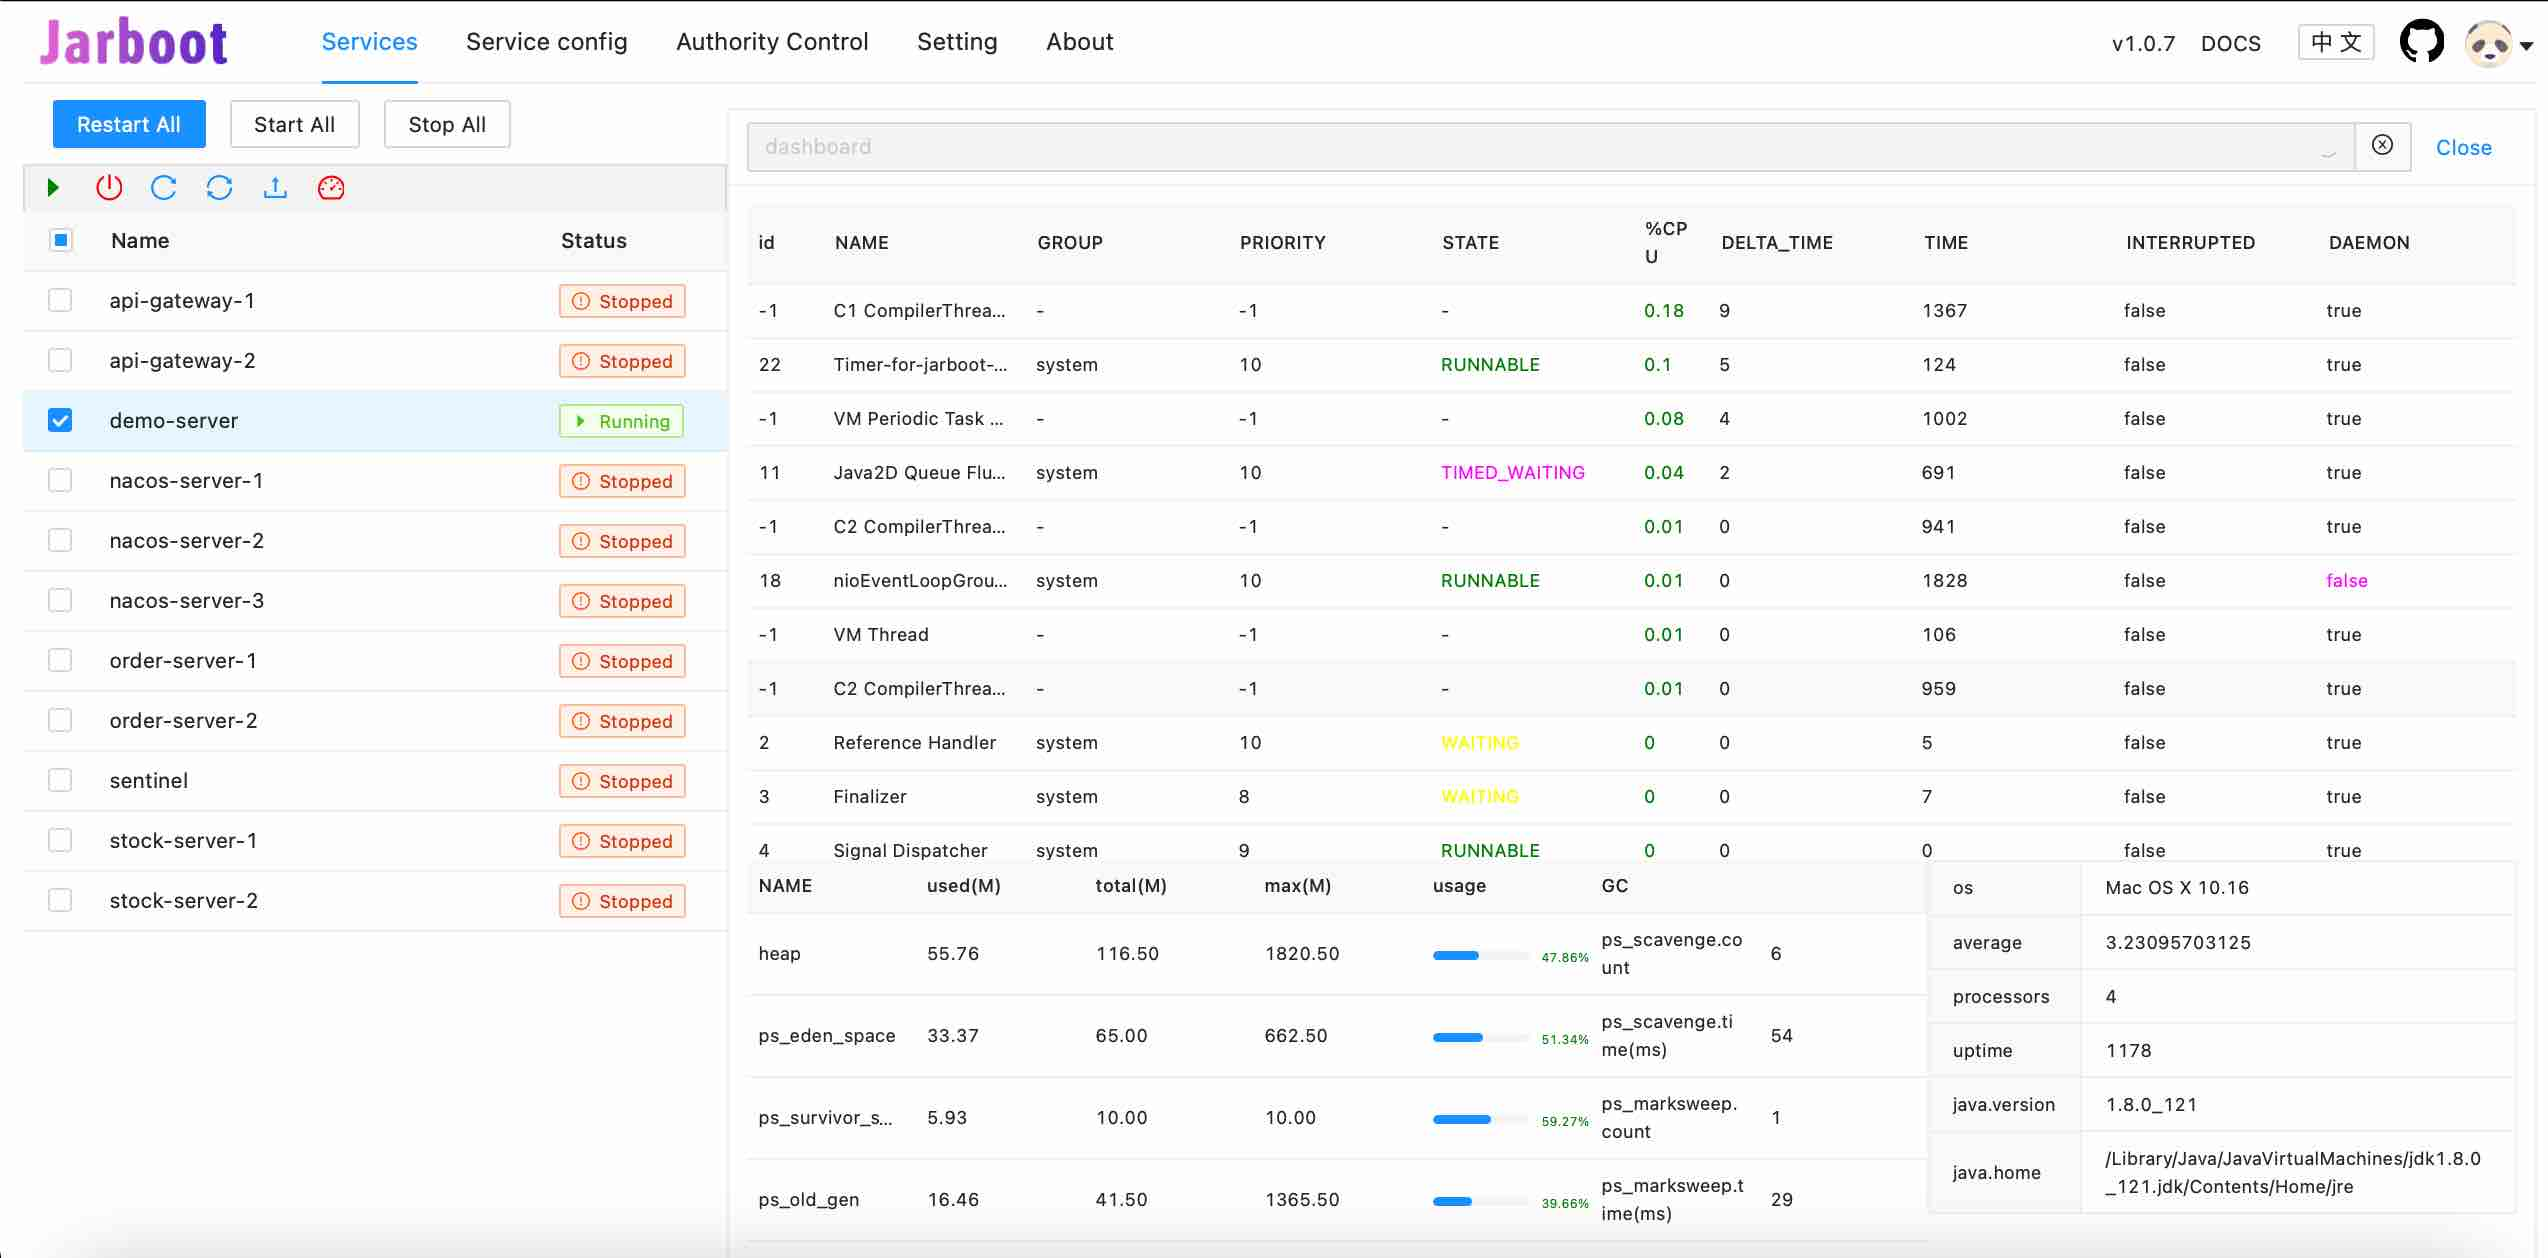
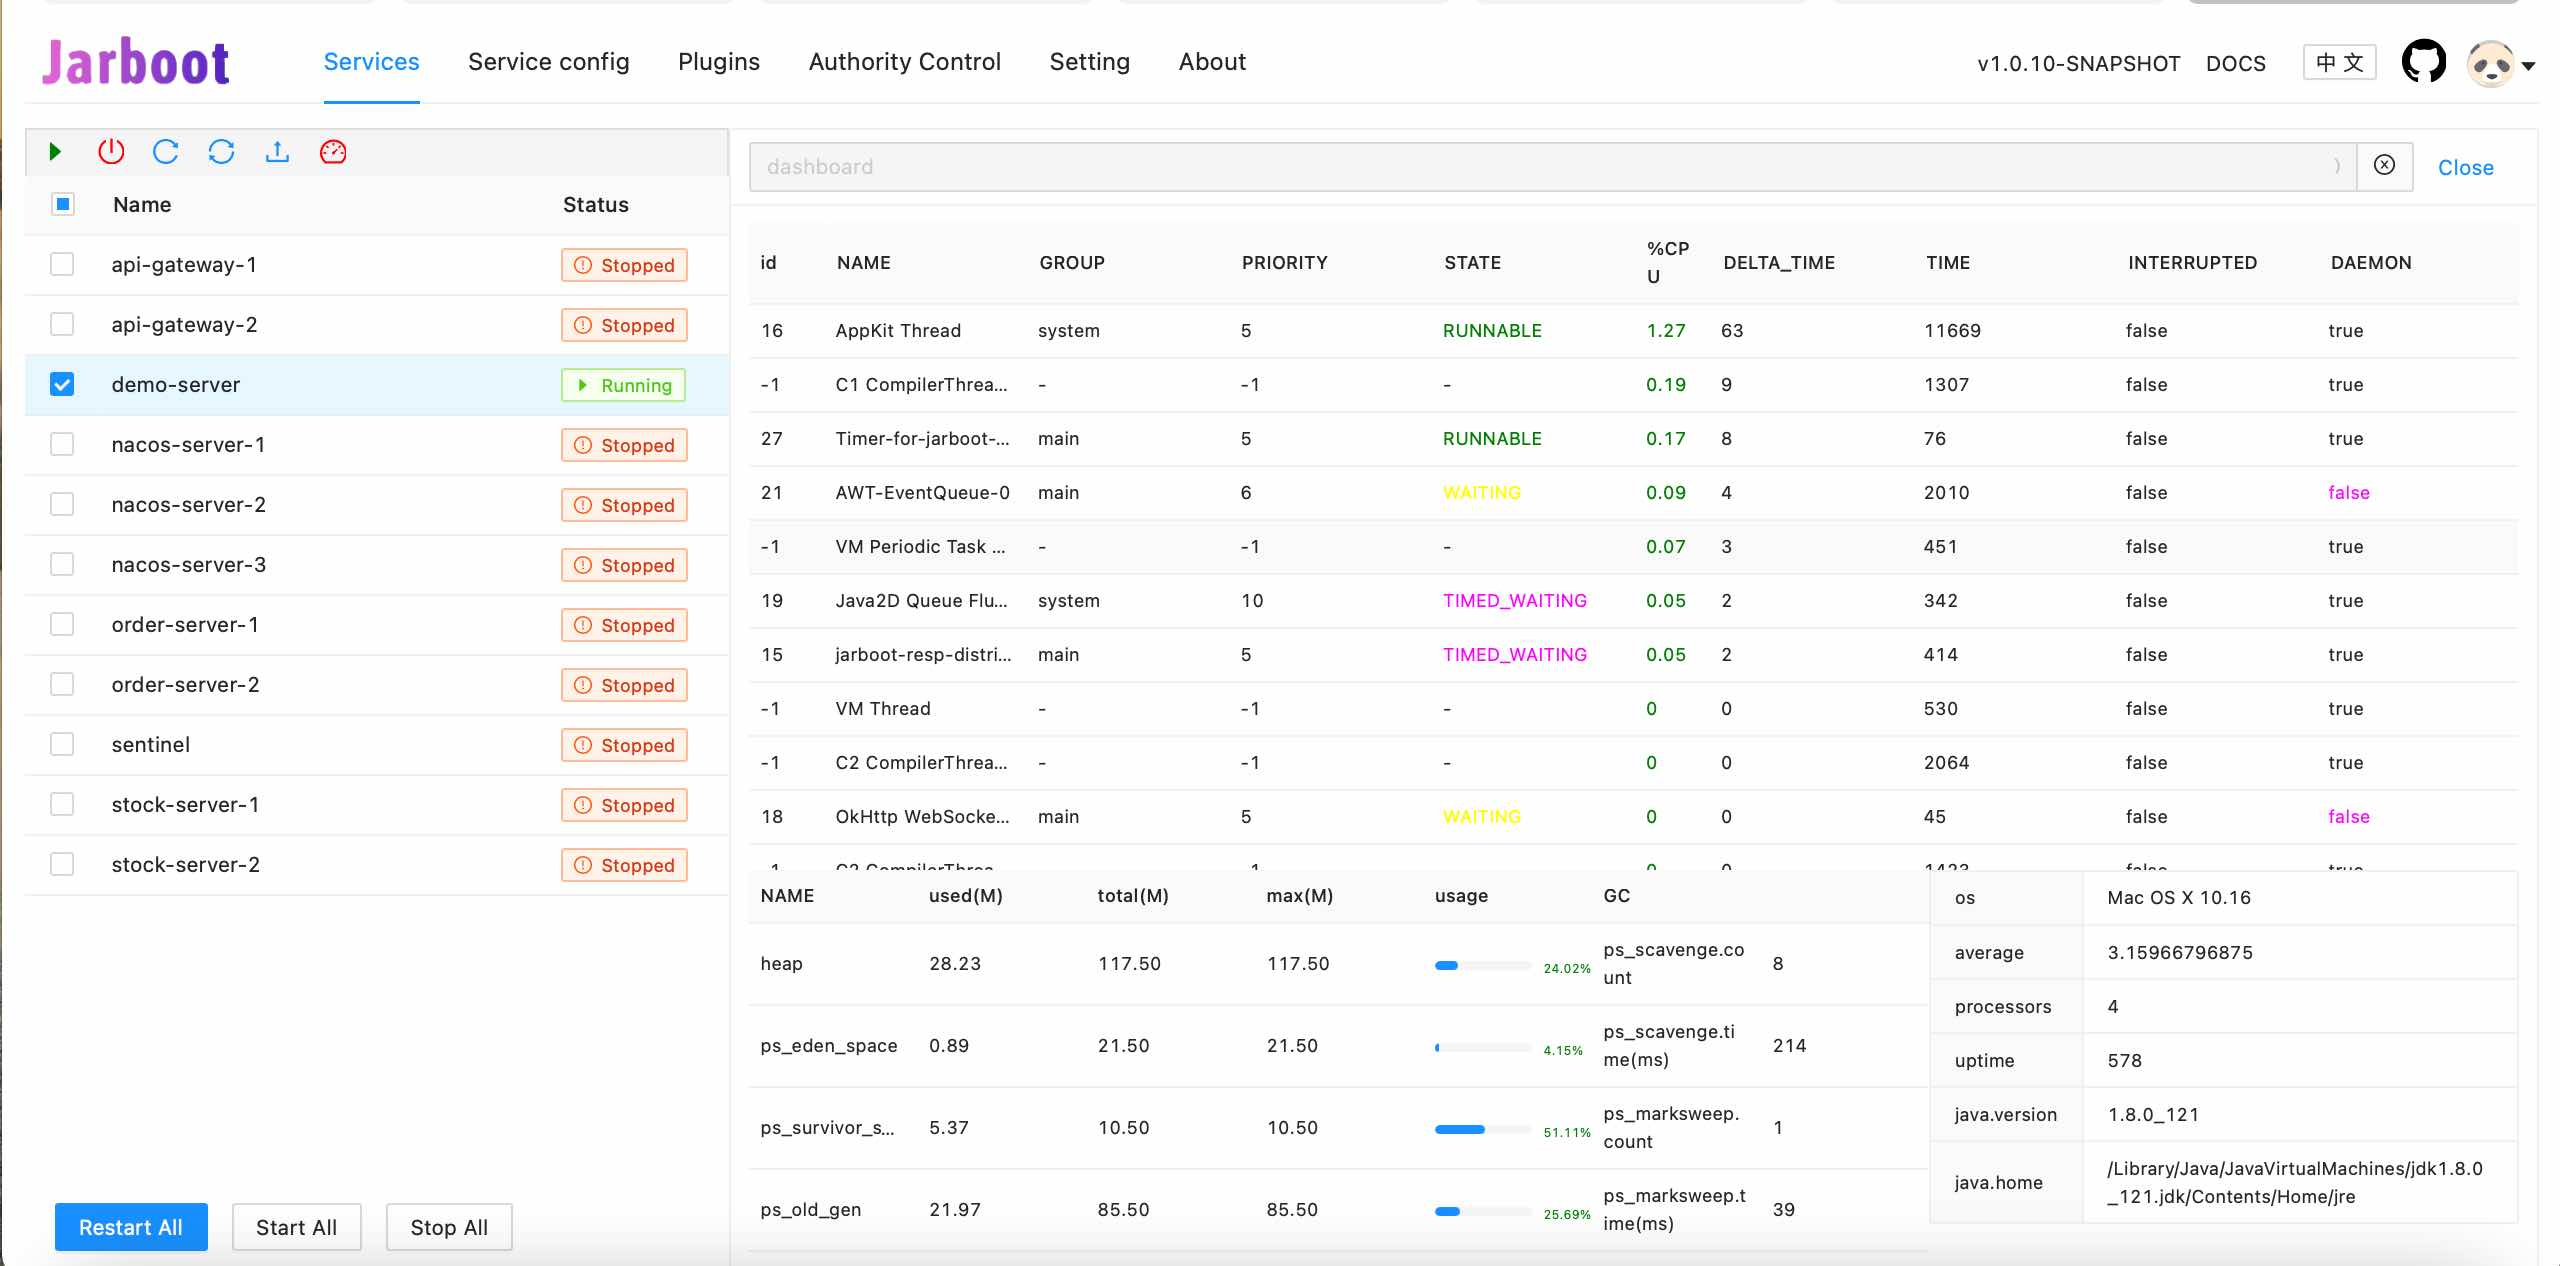
feature: 发布版本1.0.10大版本更新

diff --git a/jarboot-ui/src/components/servers/ServerMgrView.tsx b/jarboot-ui/src/components/servers/ServerMgrView.tsx
@@ -94,38 +94,38 @@ export default class ServerMgrView extends React.PureComponent {
             case JarBootConst.MSG_TYPE_START:
                 // 激活终端显示
                 this._activeConsole(server);
-                Logger.log(`启动中${server}...`);
+                Logger.log(`${server}启动中...`);
                 pubsub.publish(server, JarBootConst.START_LOADING);
                 this._clearDisplay(server);
                 this._updateServerStatus(server, JarBootConst.STATUS_STARTING);
                 break;
             case JarBootConst.MSG_TYPE_STOP:
-                Logger.log(`停止中${server}...`);
+                Logger.log(`${server}停止中...`);
                 pubsub.publish(server, JarBootConst.START_LOADING);
                 this._updateServerStatus(server, JarBootConst.STATUS_STOPPING);
                 break;
             case JarBootConst.MSG_TYPE_START_ERROR:
-                Logger.log(`启动失败${server}`);
+                Logger.log(`${server}启动失败`);
                 CommonNotice.error(`Start ${server} failed!`);
                 this._updateServerStatus(server, JarBootConst.STATUS_STOPPED);
                 break;
             case JarBootConst.MSG_TYPE_STARTED:
-                Logger.log(`启动成功${server}`);
+                Logger.log(`${server}启动成功`);
                 pubsub.publish(server, JarBootConst.FINISH_LOADING);
                 this._updateServerStatus(server, JarBootConst.STATUS_STARTED)
                 break;
             case JarBootConst.MSG_TYPE_STOP_ERROR:
-                Logger.log(`停止失败${server}`);
+                Logger.log(`${server}停止失败`);
                 CommonNotice.error(`Stop ${server} failed!`);
                 this._updateServerStatus(server, JarBootConst.STATUS_STARTED);
                 break;
             case JarBootConst.MSG_TYPE_STOPPED:
-                Logger.log(`停止成功${server}`);
+                Logger.log(`${server}停止成功`);
                 pubsub.publish(server, JarBootConst.FINISH_LOADING);
                 this._updateServerStatus(server, JarBootConst.STATUS_STOPPED)
                 break;
             case JarBootConst.MSG_TYPE_RESTART:
-                Logger.log(`重启成功${server}`);
+                Logger.log(`${server}重启成功`);
                 pubsub.publish(server, JarBootConst.FINISH_LOADING);
                 this._updateServerStatus(server, JarBootConst.STATUS_STARTED)
                 break;
@@ -301,7 +301,7 @@ export default class ServerMgrView extends React.PureComponent {
     };
 
     private _clearDisplay = (server: string) => {
-        pubsub.publish(server, 'clear');
+        pubsub.publish(server, JarBootConst.CLEAR_CONSOLE);
     };
 
     private stopServer = () => {

diff --git a/jarboot-ui/src/components/console/Console.tsx b/jarboot-ui/src/components/console/Console.tsx
@@ -189,13 +189,15 @@ class Console extends React.PureComponent<ConsoleProps> {
                 this.startLoading()
             }
             this.eventQueue.forEach(this.handleEvent);
-            //使用虚拟节点将MAX_UPDATE_DELAY时间内的所有更新一块append渲染，减轻浏览器负担
-            const fragment = document.createDocumentFragment();
             try {
-                this.lines.forEach(l => fragment.append(l));
-                this.loading.before(fragment);
-                if (this.codeDom) {
-                    this.codeDom.scrollTop = this.codeDom.scrollHeight;
+                if (this.lines.length) {
+                    //使用虚拟节点将MAX_UPDATE_DELAY时间内的所有更新一块append渲染，减轻浏览器负担
+                    const fragment = document.createDocumentFragment();
+                    this.lines.forEach(l => fragment.append(l));
+                    this.loading.before(fragment);
+                    if (this.codeDom) {
+                        this.codeDom.scrollTop = this.codeDom.scrollHeight;
+                    }
                 }
             } catch (e) {
                 Logger.error(e);

diff --git a/demo-server/src/main/java/com/mz/jarboot/demo/DemoServerApplication.java b/demo-server/src/main/java/com/mz/jarboot/demo/DemoServerApplication.java
@@ -54,7 +54,6 @@ public class DemoServerApplication implements Runnable {
 
     private static void finish() {
         int len = 102;
-        log("Jarboot Demo Server started!");
         //启动完成可主动调用setStarted通知Jarboot完成，否则将会在没有控制台输出的一段时间后才判定为完成。
         try {
             JarbootFactory.createAgentService().setStarted();

diff --git a/README.md b/README.md
@@ -93,7 +93,7 @@ Use SPI extension can implement your own command, define a command how to execut
 <dependency>
     <groupId>io.github.majianzheng</groupId>
     <artifactId>spring-boot-starter-jarboot</artifactId>
-    <version>1.0.9</version>
+    <version>1.0.10</version>
 </dependency>
 ```
 2. Implement <code>CommandProcessor</code>SPI interface
@@ -141,7 +141,7 @@ Demonstrate how to use ordinary non springboot applications.
     <groupId>io.github.majianzheng</groupId>
     <artifactId>jarboot-api</artifactId>
     <scope>provided</scope>
-    <version>1.0.9</version>
+    <version>1.0.10</version>
 </dependency>
 ```
 2. Implement spi interface

diff --git a/README_CN.md b/README_CN.md
@@ -92,7 +92,7 @@ $ sh startup.sh
 <dependency>
     <groupId>io.github.majianzheng</groupId>
     <artifactId>spring-boot-starter-jarboot</artifactId>
-    <version>1.0.9</version>
+    <version>1.0.10</version>
 </dependency>
 ```
 2. 实现<code>CommandProcessor</code>SPI接口
@@ -139,7 +139,7 @@ $ spring.env spring.application.name
     <groupId>io.github.majianzheng</groupId>
     <artifactId>jarboot-api</artifactId>
     <scope>provided</scope>
-    <version>1.0.9</version>
+    <version>1.0.10</version>
 </dependency>
 ```
 2. 实现spi接口

diff --git a/CHANGELOG.md b/CHANGELOG.md
@@ -1,8 +1,9 @@
-## 1.0.10-SNAPSHOT (9.19, 2021)
+## 1.0.10 (10.24, 2021)
 
 * 配置文件修改jarboot.services.root-dir -> jarboot.services.workspace
 * 目录结构变更，jar文件放入bin文件夹中，增加插件目录plugins
 #### FEATURES:
+* Console控制台支持print和退格
 * 支持数据库驱动放入plugins/server下以支持更多数据库
 * 支持插件式开发扩展，agent类型插件可扩充命令，server类型插件可增强服务端功能
 * 命令输入框支持历史记录上下翻页，快速输入历史命令
